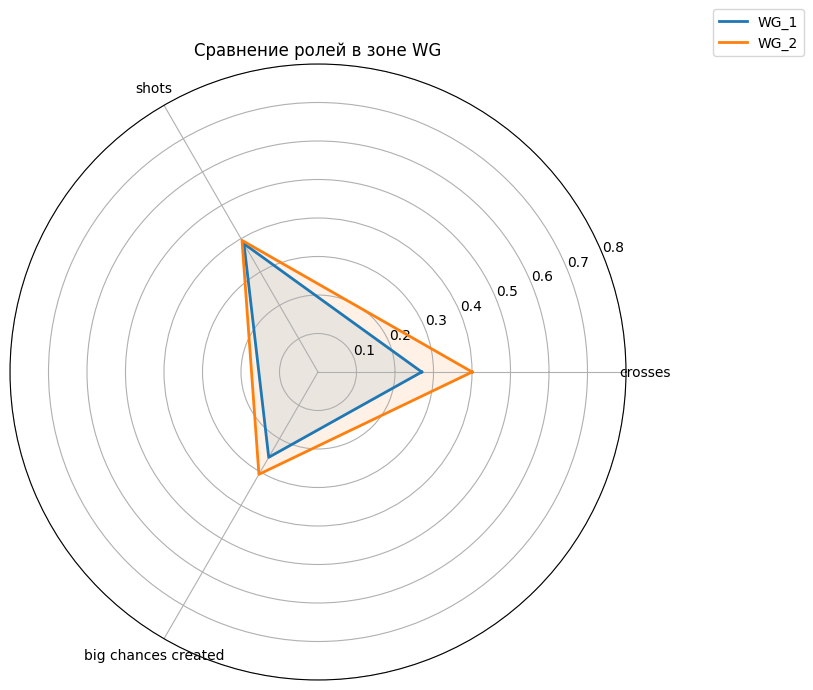
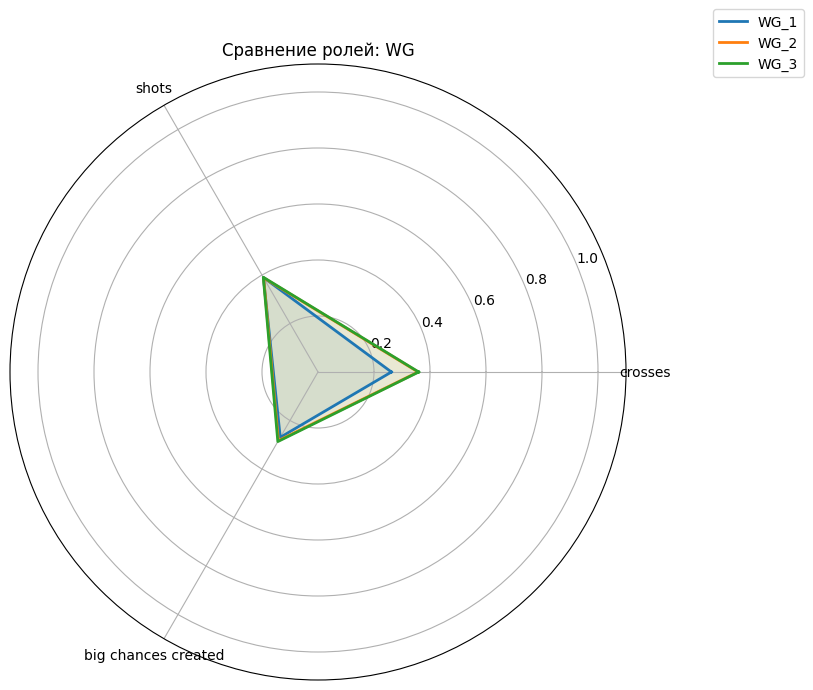
Confidence (too same)

diff --git a/app/ai/inspector.py b/app/ai/inspector.py
@@ -5,7 +5,6 @@ import os
 from .clusterer import compute_clusters
 from .data_preparator import get_prepared_data
 
-# Твои метрики для отрисовки
 ZONE_METRICS = {
     'GK': ['saves', 'high claims', 'sweeper clearances', 'goal kicks', 'accurate long balls'],
     'CB': ['tackles', 'interceptions', 'aerial battles won', 'clearances', 'headed clearance'],
@@ -16,59 +15,58 @@ ZONE_METRICS = {
 }
 
 def run_inspection():
-    print(">>> Шаг 1: Кластеризация...")
-    clusters = compute_clusters()
-    if not clusters:
-        print("Ошибка: Кластеры не сформированы.")
+    print(">>> Шаг 1: Кластеризация и расчет уверенности...")
+    labels, confidence_data = compute_clusters()
+    
+    if not labels:
+        print("Ошибка: Данные не получены.")
         return
 
-    print(">>> Шаг 2: Подготовка данных для визуализации...")
+    print(">>> Шаг 2: Подготовка отчета...")
     raw_data = get_prepared_data()
     if raw_data is None: return
     
     df = raw_data.reset_index()
     df.columns = [c.lower() for c in df.columns]
     
-    # Добавляем результаты кластеризации
-    df['role'] = df['player_name'].map(clusters)
+    # Мапим результаты
+    df['role'] = df['player_name'].map(labels)
     df = df.dropna(subset=['role'])
 
-    # --- НОВОЕ: ВЫВОД СОСТАВА КЛАСТЕРОВ ТЕКСТОМ ---
-    print("\n>>> СОСТАВ КЛАСТЕРОВ:")
+    print("\n>>> ДЕТАЛЬНЫЙ СОСТАВ КЛАСТЕРОВ (С УВЕРЕННОСТЬЮ):")
+    
     for role in sorted(df['role'].unique()):
-        players = df[df['role'] == role]['player_name'].tolist()
-        print(f"\n🔹 {role} ({len(players)} чел.):")
-        print(", ".join(sorted(players)))
-    print("\n" + "="*30 + "\n")
-
-    # Создаем папку, если нет
-    os.makedirs('output_charts', exist_ok=True)
-
-    # Отрисовка графиков
-    for zone, metrics in ZONE_METRICS.items():
-        # Приводим метрики в списке к нижнему регистру, чтобы совпало с df.columns
-        metrics = [m.lower() for m in metrics]
+        role_players = df[df['role'] == role]['player_name'].tolist()
+        print(f"\n🔹 {role} ({len(role_players)} чел.):")
         
+        # Сортируем игроков внутри кластера по убыванию уверенности
+        players_with_conf = []
+        for p in role_players:
+            conf = confidence_data[p]['confidence']
+            players_with_conf.append((p, conf))
+        
+        players_with_conf.sort(key=lambda x: x[1], reverse=True)
+        
+        # Выводим строку с именами и уверенностью (в скобках)
+        formatted_list = [f"{name} ({c})" for name, c in players_with_conf]
+        print(", ".join(formatted_list))
+
+    # Генерация графиков
+    os.makedirs('output_charts', exist_ok=True)
+    for zone, metrics in ZONE_METRICS.items():
+        metrics_low = [m.lower() for m in metrics]
         zone_df = df[df['role'].str.startswith(zone)].copy()
         if zone_df.empty: continue
 
-        # Проверяем, какие из запрошенных метрик реально есть в DF
-        available_metrics = [m for m in metrics if m in zone_df.columns]
-        missing = set(metrics) - set(available_metrics)
-        if missing:
-            print(f"⚠ Внимание: Для зоны {zone} не найдены колонки: {missing}")
-        
+        available_metrics = [m for m in metrics_low if m in zone_df.columns]
         if not available_metrics: continue
 
-        # Нормализация (используем только доступные метрики)
+        # Нормализация
         for m in available_metrics:
             v_min, v_max = zone_df[m].min(), zone_df[m].max()
             zone_df[m] = (zone_df[m] - v_min) / (v_max - v_min) if v_max > v_min else 0.5
 
-        # Группировка теперь не упадет
         role_profiles = zone_df.groupby('role')[available_metrics].mean()
-        
-        # Настройка углов под количество ДОСТУПНЫХ метрик
         angles = np.linspace(0, 2 * np.pi, len(available_metrics), endpoint=False).tolist()
         angles += angles[:1]
 
@@ -81,16 +79,16 @@ def run_inspection():
             ax.fill(angles, values, alpha=0.1)
 
         ax.set_xticks(angles[:-1])
-        ax.set_xticklabels(available_metrics) # Подписи только существующих колонок
-        ax.set_ylim(0, 0.8)
+        ax.set_xticklabels(available_metrics)
+        ax.set_ylim(0, 1.1) 
         
-        plt.title(f"Сравнение ролей в зоне {zone}")
+        plt.title(f"Сравнение ролей: {zone}")
         plt.legend(loc='upper right', bbox_to_anchor=(1.3, 1.1))
         
-        path = f"output_charts/radar_{zone}.png"
-        plt.savefig(path, bbox_inches='tight')
+        plt.savefig(f"output_charts/radar_{zone}.png", bbox_inches='tight')
         plt.close()
-        print(f"💾 График сохранен: {path}")
+
+    print("\n✅ Инспекция завершена. Графики обновлены в 'output_charts'.")
 
 if __name__ == "__main__":
     run_inspection()

diff --git a/app/ai/clusterer.py b/app/ai/clusterer.py
@@ -7,14 +7,11 @@ from .data_preparator import get_prepared_data
 def create_style_ratios(numeric_data, zone):
     ratios = pd.DataFrame(index=numeric_data.index)
     
-    # Функция для безопасного извлечения данных
     def g(name):
-        # В numeric_data колонки УЖЕ в нижнем регистре (мы сделали это в compute_clusters)
         if name in numeric_data.columns:
             return numeric_data[name]
         return pd.Series(0.0, index=numeric_data.index)
 
-    # Используем названия метрик в нижнем регистре, как они приходят из БД
     if zone == 'CM':
         ratios['def'] = (g('tackles') + g('interceptions')) / (g('passes') + 1)
         ratios['atk'] = g('shots') / (g('passes') + 1)
@@ -31,19 +28,26 @@ def create_style_ratios(numeric_data, zone):
     elif zone == 'ST':
         ratios['fin'] = g('shots on target') / (g('shots') + 1)
         ratios['vol'] = g('shots') / (g('appearances') + 1)
+    elif zone == 'GK':
+        ratios['dist'] = g('goal kicks') / (g('throw outs') + g('goal kicks') + 1)
+        ratios['clm'] = (g('high claims') + g('catches')) / (g('punches') + 1)
     
-    # Если все ratios оказались нулевыми, добавим базовые метрики, чтобы K-Means было за что зацепиться
-    if ratios.sum().sum() == 0:
-        return numeric_data[['passes', 'tackles', 'shots']].copy() if 'passes' in numeric_data.columns else numeric_data
+    if ratios.empty or ratios.sum().sum() == 0:
+        cols = ['passes', 'tackles', 'shots']
+        existing = [c for c in cols if c in numeric_data.columns]
+        return numeric_data[existing] if existing else numeric_data
         
     return ratios
 
+def softmax(distances, T=1.0):
+    exp_dist = np.exp(-distances / T)
+    return exp_dist / np.sum(exp_dist, axis=1, keepdims=True)
+
 def compute_clusters():
     raw_df = get_prepared_data()
-    if raw_df is None: return {}
+    if raw_df is None: return {}, {}
 
     df_working = raw_df.reset_index()
-    # Приводим к нижнему регистру названия колонок
     df_working.columns = [c.lower() for c in df_working.columns]
     
     if 'position' in df_working.columns:
@@ -52,8 +56,6 @@ def compute_clusters():
     if 'name' in df_working.columns and 'player_name' not in df_working.columns:
         df_working = df_working.rename(columns={'name': 'player_name'})
 
-    # Распределение 4 -> 6 зон
-    MAP = {'GK': 'GK', 'CB': 'DF', 'FB': 'DF', 'CM': 'MF', 'WG': 'FW', 'ST': 'FW'}
     zones_config = {
         'GK': {'n': 2, 'prefix': 'GK_'}, 'CB': {'n': 3, 'prefix': 'CB_'}, 
         'FB': {'n': 3, 'prefix': 'FB_'}, 'CM': {'n': 4, 'prefix': 'CM_'},
@@ -68,40 +70,43 @@ def compute_clusters():
         elif pos == 'MF':
             target = 'WG' if (row.get('dribbles', 0) > 0.8 or row.get('crosses', 0) > 1.2) else 'CM'
         else:
-            target = 'ST' if pos == 'FW' else pos
+            target = 'ST' if pos == 'FW' else (pos if pos in zones_config else 'CM')
         player_zones[row['player_name']] = target
 
-    final_results = {}
+    final_labels = {}
+    confidence_scores = {}
 
     for zone, config in zones_config.items():
         names = [n for n, z in player_zones.items() if z == zone]
         zone_df = df_working[df_working['player_name'].isin(names)]
-        
         if len(zone_df) < config['n']: continue
 
-        # Подготовка данных
         num_data = zone_df.select_dtypes(include=[np.number]).fillna(0)
         input_data = create_style_ratios(num_data, zone)
 
-        # МАСШТАБИРОВАНИЕ
         try:
-            # Если данных мало или они константные, StandardScaler может выдать предупреждение,
-            # но это лучше, чем подавать сырые нули.
             scaler = StandardScaler()
             features_scaled = scaler.fit_transform(input_data)
             
-            # Добавим мизерный шум, если точки идентичны (защита от ConvergenceWarning)
             if np.allclose(features_scaled, features_scaled[0]):
                 features_scaled += np.random.normal(0, 1e-7, features_scaled.shape)
 
-            kmeans = KMeans(n_clusters=config['n'], random_state=42, n_init=20)
+            kmeans = KMeans(n_clusters=config['n'], random_state=42, n_init=30)
             labels = kmeans.fit_predict(features_scaled)
             
+            distances = kmeans.transform(features_scaled)
+            probs = softmax(distances, T=1.0)
+            
             for i, p_name in enumerate(zone_df['player_name']):
-                final_results[p_name] = f"{config['prefix']}{labels[i] + 1}"
-                
+                c_idx = labels[i]
+                role_name = f"{config['prefix']}{c_idx + 1}"
+                final_labels[p_name] = role_name
+                confidence_scores[p_name] = {
+                    'role': role_name,
+                    'confidence': round(float(probs[i][c_idx]), 3),
+                    'probabilities': {f"{config['prefix']}{j+1}": round(float(p), 3) for j, p in enumerate(probs[i])}
+                }
         except Exception as e:
-            print(f"Ошибка в зоне {zone}: {e}")
             continue
 
-    return final_results
+    return final_labels, confidence_scores
